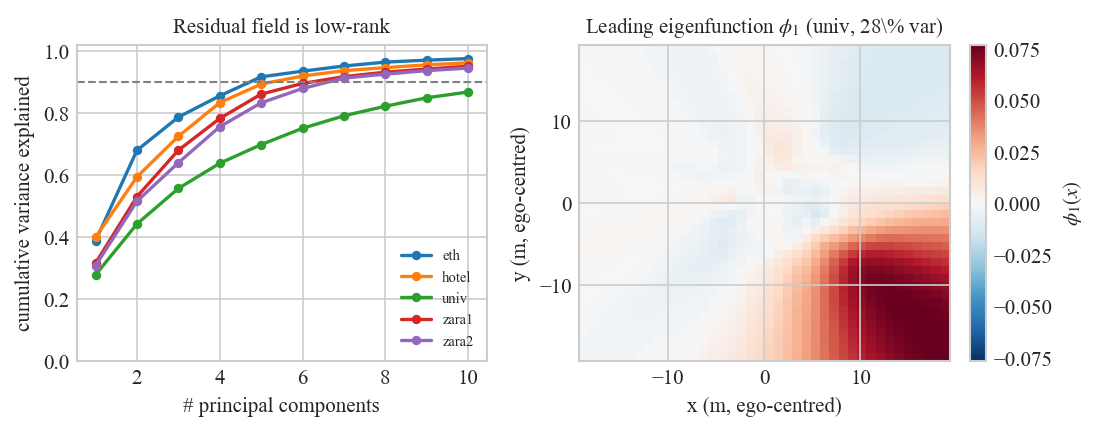
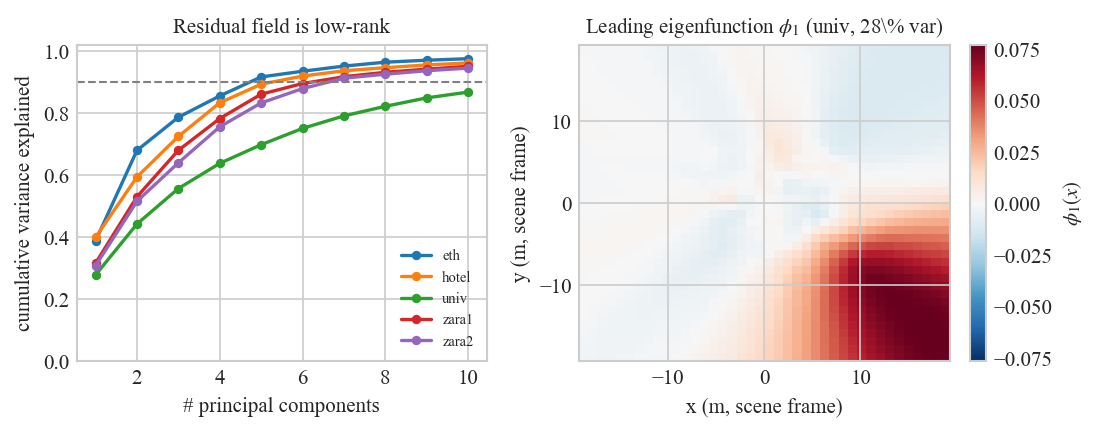
FPCA fig: correct frame label (ego-centred -> scene frame); fix main.tex caption
The residual field is built on a fixed per-scene world grid (points shifted by
world_center in build_training_residuals_from_file), i.e. it is in the WORLD/scene
frame, not ego-centred. Fix the mislabeled phi_1 axes in make_fig_fpca_lowrank.py and
regenerate the figure; fix the matching "ego-centred" wording in the main.tex caption.
This is the world-frame consistency we want: L2 (stationarity) and L3 (low-rank) are
both measured in the scene frame.

diff --git a/make_fig_fpca_lowrank.py b/make_fig_fpca_lowrank.py
@@ -158,8 +158,8 @@ def main():
         fig.colorbar(im, ax=ax_p, fraction=0.046, label=r"$\phi_1(x)$")
         ax_p.set_title(rf"Leading eigenfunction $\phi_1$ ({args.phi_dataset}, "
                        rf"{cumvar[0]*100:.0f}\% var)", fontsize=10)
-        ax_p.set_xlabel("x (m, ego-centred)")
-        ax_p.set_ylabel("y (m, ego-centred)")
+        ax_p.set_xlabel("x (m, scene frame)")
+        ax_p.set_ylabel("y (m, scene frame)")
 
     fig.tight_layout()
     os.makedirs(PAPER_DIR, exist_ok=True)

diff --git a/T_RO2026/main.tex b/T_RO2026/main.tex
@@ -287,7 +287,7 @@ with FPCA modes $\{\psi_k\}_{k=1}^{r}\subset L^2(\mathcal{X})$ that are stable a
     \caption{The residual score field is \emph{low-rank}. \textbf{Left:} cumulative variance
     explained by the leading functional principal components on each ETH--UCY scene;
     $5$--$7$ components already reach $90\%$ (dashed) on most scenes. \textbf{Right:} the
-    leading eigenfunction $\psi_1$ (\texttt{univ}), a smooth ego-centred spatial mode. The
+    leading eigenfunction $\psi_1$ (\texttt{univ}), a smooth scene-frame spatial mode. The
     low effective dimension is what lets the envelope be learned offline.}
     \label{fig:fcp_lowrank}
 \end{figure}